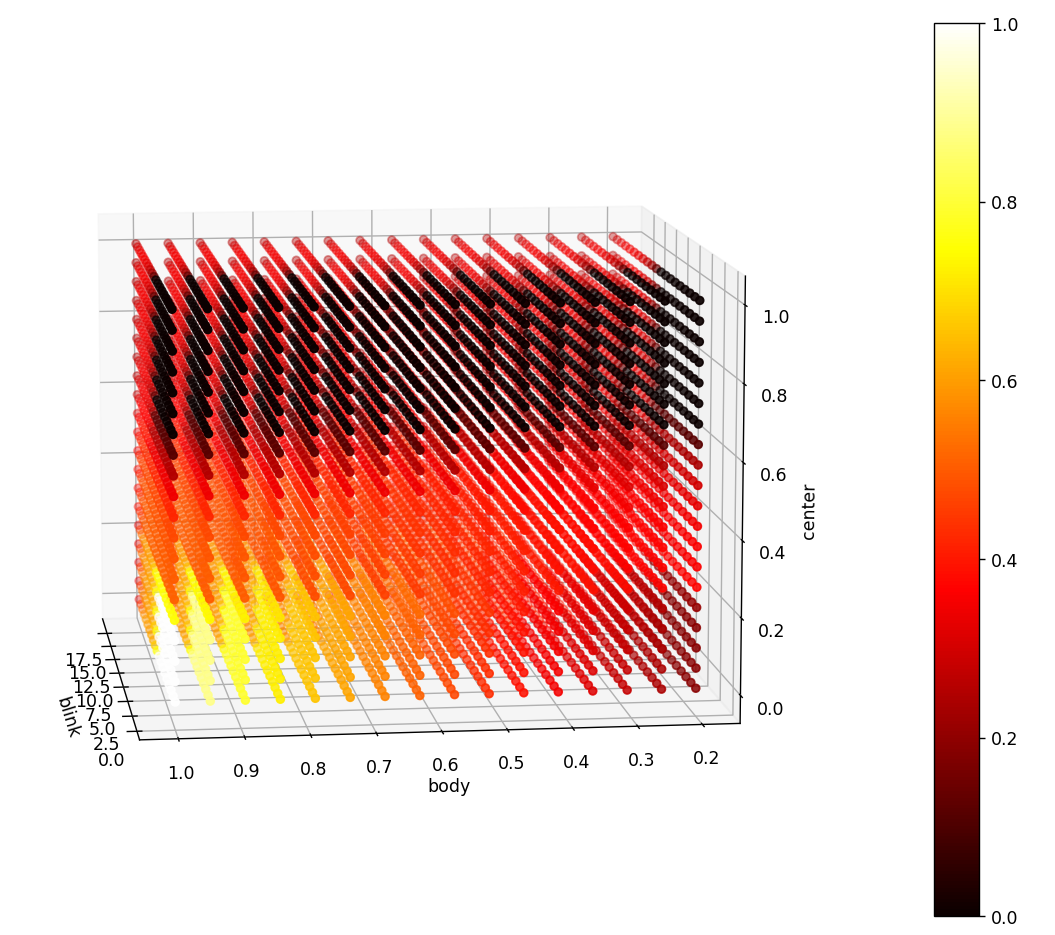
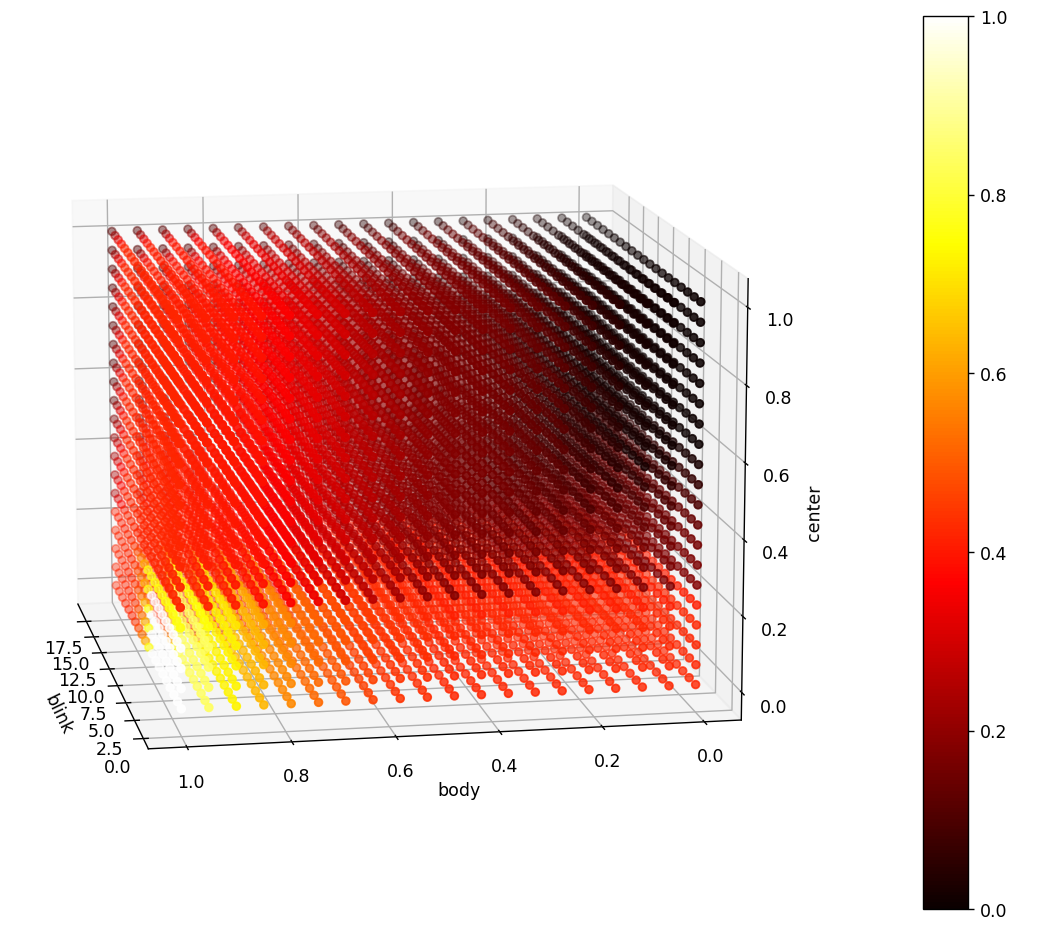
Expand high grade area with repect to body
This is done by lower grade["medium"]/body["average"] to 4/0.4
Though still strict, 0.8 in body has grade at nearly 0.6 (0.58).

diff --git a/concentration/fuzzy/grader.py b/concentration/fuzzy/grader.py
@@ -68,9 +68,10 @@ class FuzzyGrader:
 
     def _create_membership_func_of_body(self) -> None:
         # The greater the values is, the better the grade of body concentration is.
-        self._body = ctrl.Antecedent(np.arange(2), "body")
-        self._body["good"] = fuzz.trimf(self._body.universe, [0, 1, 1])
-        self._body["poor"] = fuzz.trimf(self._body.universe, [0, 0, 1])
+        self._body = ctrl.Antecedent(np.arange(0, 1.1, 0.1), "body")
+        self._body["good"] = fuzz.trimf(self._body.universe, [0.4, 1, 1])
+        self._body["average"] = fuzz.trimf(self._body.universe, [0, 0.4, 1])
+        self._body["poor"] = fuzz.trimf(self._body.universe, [0, 0, 0.4])
 
     def _create_membership_func_of_center(self) -> None:
         self._center = ctrl.Antecedent(np.arange(0, 1, 0.01), "center")
@@ -93,9 +94,9 @@ class FuzzyGrader:
         self._grade = ctrl.Consequent(np.arange(11), "grade")
         self._grade.defuzzify_method = defuzzify_method
 
-        self._grade["high"] = fuzz.trimf(self._grade.universe, [6, 10, 10])
-        self._grade["medium"] = fuzz.trimf(self._grade.universe, [0, 6, 10])
-        self._grade["low"] = fuzz.trimf(self._grade.universe, [0, 0, 6])
+        self._grade["high"] = fuzz.trimf(self._grade.universe, [4, 10, 10])
+        self._grade["medium"] = fuzz.trimf(self._grade.universe, [0, 4, 10])
+        self._grade["low"] = fuzz.trimf(self._grade.universe, [0, 0, 4])
 
     def _create_fuzzy_rules(self) -> List[ctrl.Rule]:
         """Returns the fuzzy rule that controls the grade."""
@@ -125,8 +126,8 @@ class FuzzyGrader:
 
     @staticmethod
     def _to_modified_grade(raw_grade: float) -> float:
-        # (4.33, 8.67)
-        return 0.2304 * raw_grade - 0.9977
+        # (4.0, 8.0)
+        return 0.25 * raw_grade - 1
 
 
 if __name__ == "__main__":
